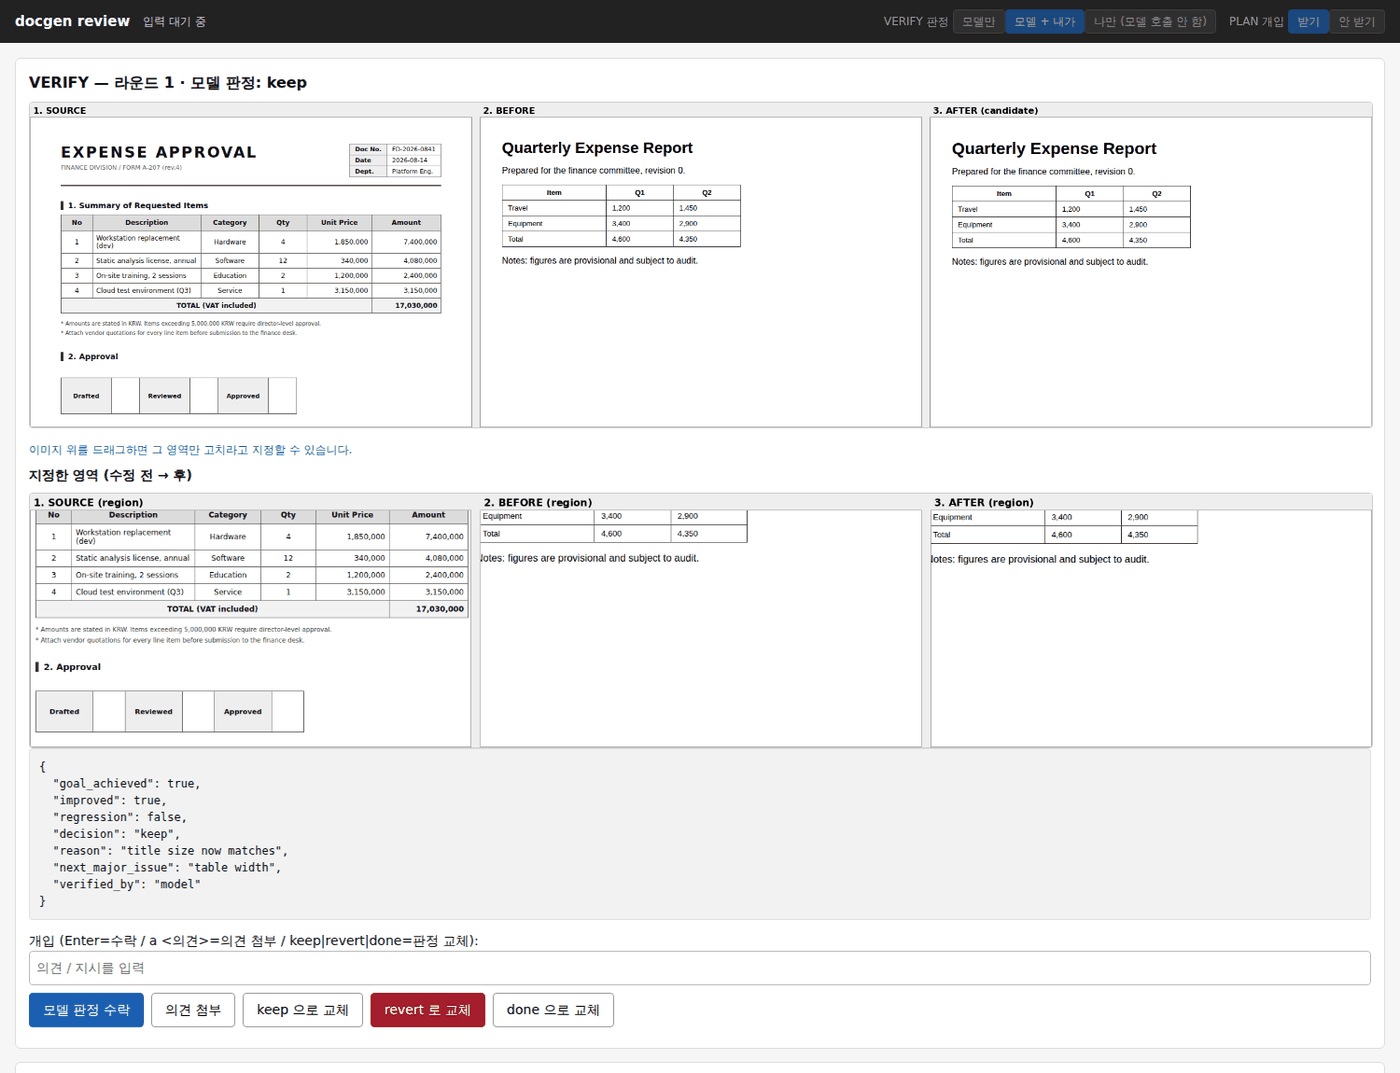
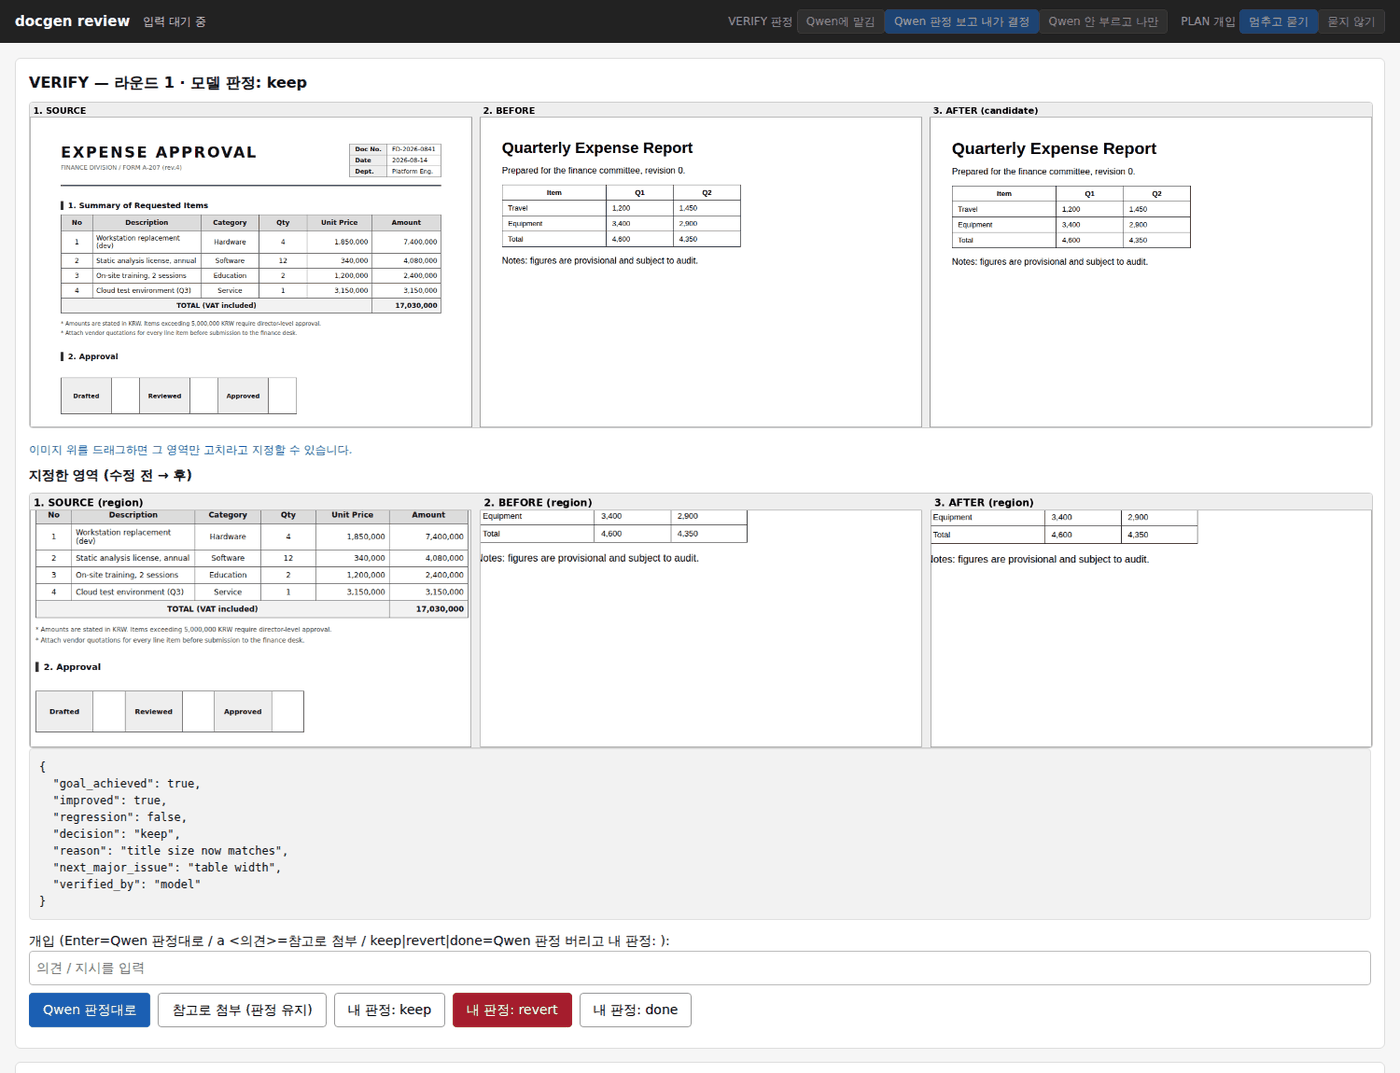
Make "read Qwen's result, then use mine instead" the labelled default
The capability existed at both stages but three things hid or misrepresented it.

Labels described mechanism rather than intent. "모델 + 내가" reads as merging two
opinions, not as reading the model's result and then deciding; "keep 으로 교체"
names the value being written, not that Qwen's verdict is being discarded. Both
stages now use one vocabulary: Qwen 계획대로 / Qwen 판정대로 for accepting, 참고로
첨부 for annotating, and Qwen 계획 버리고 내 지시만 / 내 판정: keep|revert|done
for replacing. The header modes read Qwen에 맡김 / Qwen 판정 보고 내가 결정 /
Qwen 안 부르고 나만.

The record was asymmetric. Discarding a plan set planned_by to operator, but
replacing a verdict left verified_by as model+operator even though the decision
was the human's. Replacing now sets verified_by to operator with the model's
verdict kept as model_decision, mirroring model_plan; annotating still leaves it
model+operator, since there the model's decision stands.

The docs pointed at the wrong mode. --verify human was presented as the way to
have a person judge, but it skips the Qwen call, so there is no verdict to read
first. Reading and replacing is plain --ui; skipping the call is a separate
choice with its own tradeoff, now stated as such.

All eight screenshots recaptured so every visible label matches.

Claude-Session: https://claude.ai/code/session_01FGSBbvgH4rDB1TDj4rKnsM

Changed region(s): [[0.0307, 0.9226, 0.4914, 0.9842], [0.5221, 0.0, 0.9829, 0.0308], [0.0614, 0.8611, 0.4607, 0.8919]]

diff --git a/pipeline.py b/pipeline.py
@@ -316,8 +316,8 @@ class Pipeline:
         return self._input(prompt, context)
 
     PLAN_PROMPT = (
-        "개입 (Enter=수락 / a <의견>=첨언 / o <지시>=계획 교체 / "
-        "x <지시>=Qwen 계획 버리고 사람 의견만 / s=건너뛰기): "
+        "개입 (Enter=Qwen 계획대로 / a <의견>=참고로 첨부 / o <지시>=지시 우선 / "
+        "x <지시>=Qwen 계획 버리고 내 지시만 / s=건너뛰기): "
     )
 
     def review_plan(self, plan: dict, context: dict | None = None) -> dict:
@@ -340,10 +340,10 @@ class Pipeline:
             "text": True,
             "enter_value": "a @text",
             "choices": [
-                {"label": "계획 수락", "value": "", "style": "primary"},
-                {"label": "의견 첨부 (Qwen + 사람)", "value": "a @text"},
-                {"label": "계획 교체", "value": "o @text"},
-                {"label": "Qwen 계획 버리고 사람 의견만", "value": "x @text"},
+                {"label": "Qwen 계획대로", "value": "", "style": "primary"},
+                {"label": "참고로 첨부 (계획 유지)", "value": "a @text"},
+                {"label": "내 지시 우선 (계획 유지)", "value": "o @text"},
+                {"label": "Qwen 계획 버리고 내 지시만", "value": "x @text"},
                 {"label": "라운드 건너뛰기", "value": "s", "style": "warn"},
             ],
         }
@@ -403,13 +403,14 @@ class Pipeline:
                     LOG.info("PLAN: operator marked a region %s", self._last_region)
                 self.interventions += 1
                 return plan
-            print("a(첨언) / o(계획 교체) / x(사람 의견만) / s(건너뛰기) 중에서 골라주세요.")
+            print("a(참고 첨부) / o(지시 우선) / x(계획 버리고 내 지시만) / s(건너뛰기) 중에서 골라주세요.")
             if attempt == 2:
                 print("입력을 이해하지 못했습니다. 계획을 그대로 수락합니다.")
         return plan
 
     VERIFY_PROMPT = (
-        "개입 (Enter=수락 / a <의견>=의견 첨부 / keep|revert|done=판정 교체): "
+        "개입 (Enter=Qwen 판정대로 / a <의견>=참고로 첨부 / "
+        "keep|revert|done=Qwen 판정 버리고 내 판정: ): "
     )
 
     def review_verify(self, verdict: dict, context: dict | None = None) -> dict:
@@ -431,11 +432,11 @@ class Pipeline:
             "image2_label": (context or {}).get("image2_label", ""),
             "text": True,
             "choices": [
-                {"label": "모델 판정 수락", "value": "", "style": "primary"},
-                {"label": "의견 첨부", "value": "a @text"},
-                {"label": "keep 으로 교체", "value": "keep"},
-                {"label": "revert 로 교체", "value": "revert", "style": "warn"},
-                {"label": "done 으로 교체", "value": "done"},
+                {"label": "Qwen 판정대로", "value": "", "style": "primary"},
+                {"label": "참고로 첨부 (판정 유지)", "value": "a @text"},
+                {"label": "내 판정: keep", "value": "keep"},
+                {"label": "내 판정: revert", "value": "revert", "style": "warn"},
+                {"label": "내 판정: done", "value": "done"},
             ],
         }
         for attempt in range(3):
@@ -464,13 +465,15 @@ class Pipeline:
                 verdict["model_decision"] = verdict.get("decision")
                 verdict["operator_override"] = head
                 verdict["decision"] = head
-                verdict["verified_by"] = "model+operator"
+                # The decision is the operator's now. Mirrors planned_by on the
+                # PLAN side: the model's verdict is kept only as a record.
+                verdict["verified_by"] = "operator"
                 if rest:
                     verdict["operator_note"] = rest
                 self.interventions += 1
                 LOG.info("VERIFY: operator overrode %s -> %s", verdict["model_decision"], head)
                 return verdict
-            print("a(의견 첨부) / keep / revert / done 중에서 골라주세요.")
+            print("a(참고 첨부) / keep / revert / done(내 판정) 중에서 골라주세요.")
             if attempt == 2:
                 print("입력을 이해하지 못했습니다. 모델 판정을 그대로 둡니다.")
         return verdict

diff --git a/tests/test_offline.py b/tests/test_offline.py
@@ -478,7 +478,15 @@ def test_operator(llm_base: str, renderer_url: str) -> None:
     v = pipe.review_verify({"decision": "keep", "verified_by": "model"})
     assert v["decision"] == "revert" and v["model_decision"] == "keep", v
     assert v["operator_note"] == "표가 더 어긋났다", v
-    ok("VERIFY override accepts a reason on the same line")
+    # Replacing the verdict makes it the operator's, mirroring planned_by.
+    assert v["verified_by"] == "operator", v
+    ok("VERIFY override accepts a reason and records verified_by=operator")
+
+    # Augmenting leaves the verdict as the model's, with a human note attached.
+    pipe._ask = lambda *_a, **_k: "a 표 우측 정렬이 남았다"
+    va = pipe.review_verify({"decision": "keep", "verified_by": "model"})
+    assert va["decision"] == "keep" and va["verified_by"] == "model+operator", va
+    ok("augmenting keeps verified_by=model+operator, override does not")
 
     # --- interactive: overriding VERIFY, keeping the model's own verdict
     pipe._ask = lambda *_a, **_k: "revert"

diff --git a/ui.py b/ui.py
@@ -100,9 +100,11 @@ function send(value){
 
 // --- 실행 중에 바꿀 수 있는 설정 -------------------------------------------
 const VERIFY_MODES = [
-  ['model', '모델만'], ['both', '모델 + 내가'], ['human', '나만 (모델 호출 안 함)'],
+  ['model', 'Qwen에 맡김'],
+  ['both',  'Qwen 판정 보고 내가 결정'],
+  ['human', 'Qwen 안 부르고 나만'],
 ];
-const PLAN_MODES = [[true, '받기'], [false, '안 받기']];
+const PLAN_MODES = [[true, '멈추고 묻기'], [false, '묻지 않기']];
 
 function setConfig(patch){
   fetch('config', {method:'POST', headers:{'Content-Type':'application/json'},
